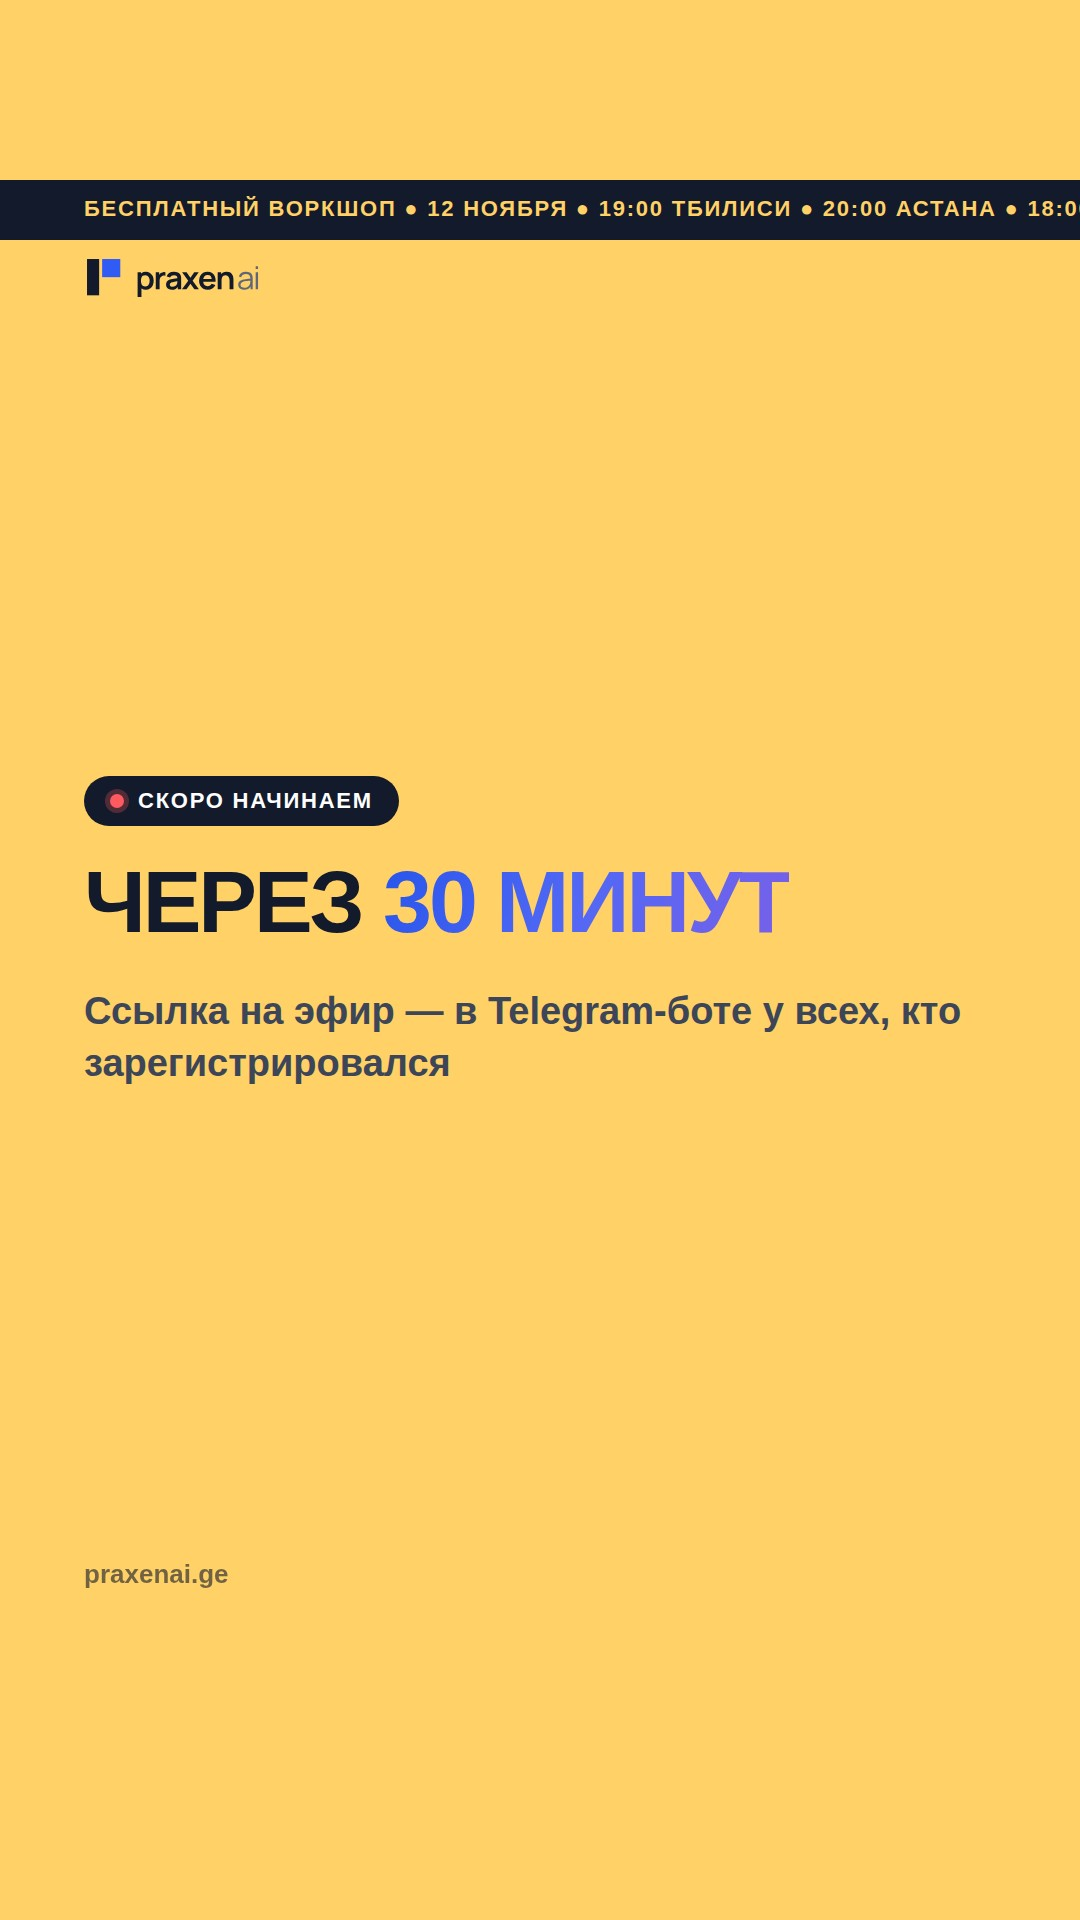
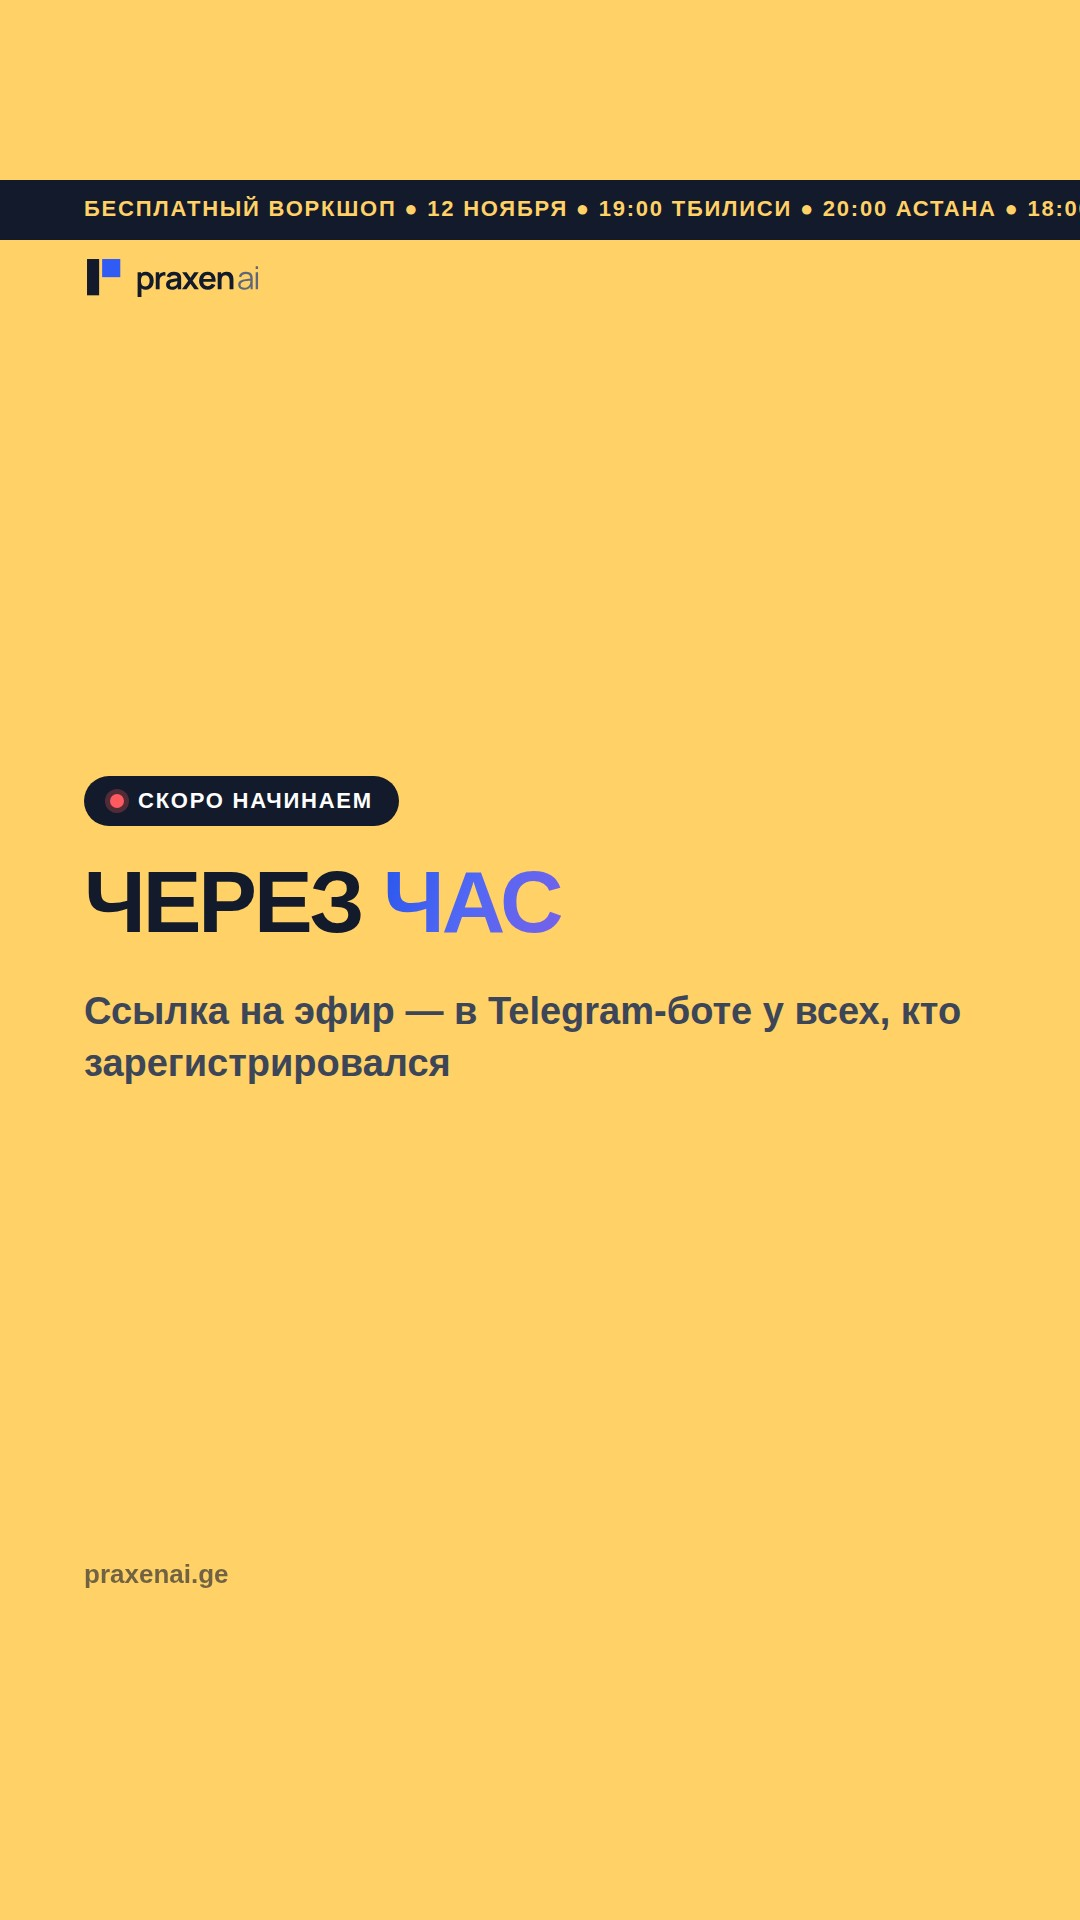
Social: workshop-day reminders an hour before the start (publishing runs at :07)
Claude-Session: https://claude.ai/code/session_01KL6o371qpbTr1MgjKJCrM5

Changed region(s): [[0.3361, 0.4375, 0.7333, 0.5]]

diff --git a/docs/SMM-PLAN-2026-11.md b/docs/SMM-PLAN-2026-11.md
@@ -61,7 +61,7 @@
 | пн 09.11 | W08 «Клиент пишет на другом языке» | W08 | W08 + T14 «Какой вопрос разобрать в эфире?» | S13 «Что такое токены?» |
 | вт 10.11 | **F06 «5 вопросов про воркшоп»** | **TG08 «Что подготовить к воркшопу»** | — | S07 «Через 2 дня» |
 | ср 11.11 | W09 «Окупился ли ИИ?» | W09 | W09 + T15 «Завтра воркшоп» | S14 «Уже завтра» |
-| чт 12.11 | **F07 «Воркшоп сегодня в 19:00»** | **TG09 в 18:30 «Через 30 минут»** | T16 «Сегодня в 19:00» | S15 в 12:00, S16 в 18:30 |
+| чт 12.11 | **F07 «Воркшоп сегодня в 19:00»** | **TG09 в 18:00 «Через час»** | T16 «Сегодня в 19:00» | S15 в 12:00, S16 в 18:00 «Через час» |
 | сб 14.11 | **F08 «Ожидание и реальность внедрения»** | — | — | — |
 
 **Reels (снимаете вы, монтаж мой):** пт 30.10 «Знакомство», вт 03.11 «Сколько стоит», чт 05.11 «С чего начать», ср 11.11 «Завтра воркшоп» (тексты были в прошлом сообщении). Плюс два новых: «3 промпта за 30 секунд» (запись экрана, как промпт отвечает) и «Напишите нам в директ — ответит ИИ» (после одобрения Meta).

diff --git a/content/social/out/telegram-2026-11/tg09-starting/captions.md b/content/social/out/telegram-2026-11/tg09-starting/captions.md
@@ -1,8 +1,8 @@
 # tg09-starting · 2026-11-12 · telegram only
 
-## telegram · 2026-11-12 18:30 (Тбилиси)
+## telegram · 2026-11-12 18:00 (Тбилиси)
 
-Через 30 минут начинаем воркшоп «ИИ в отделе продаж».
+Через час начинаем воркшоп «ИИ в отделе продаж».
 
 Ссылка на эфир уже в Telegram-боте у всех, кто зарегистрировался. Если не видите её, откройте бот и нажмите «Старт».
 
